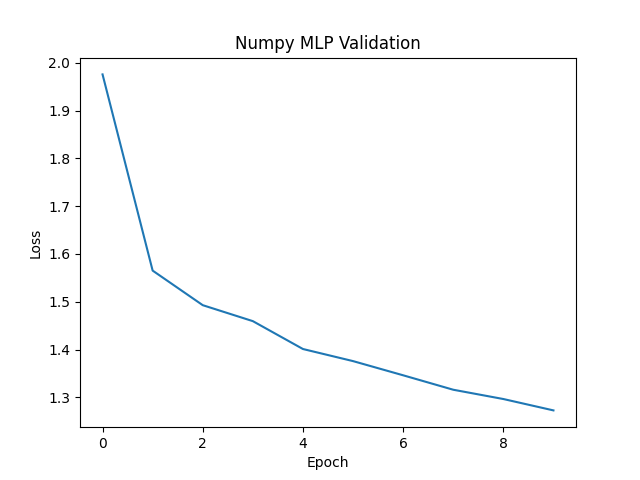
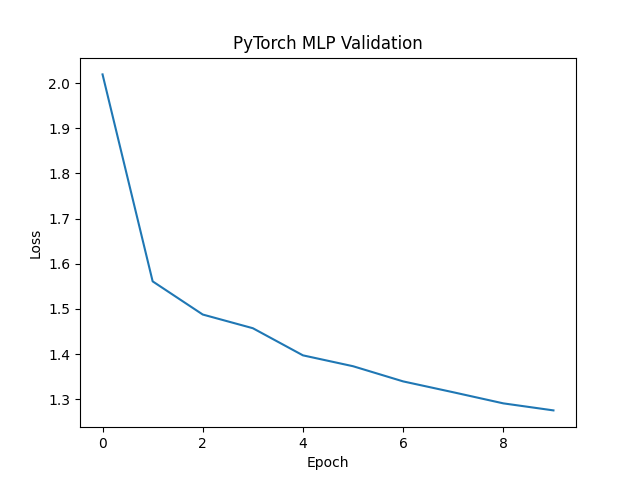
added batch norm, working on model comparison

diff --git a/assignment1/compare_models.py b/assignment1/compare_models.py
@@ -26,15 +26,18 @@ import os
 from mlp_pytorch import MLP
 import cifar10_utils
 import train_mlp_pytorch
+import train_mlp_numpy
 
 import torch
 import torch.nn as nn
 import torch.optim as optim
+
+import argparse
 # Hint: you might want to import some plotting libraries or similar
 # You are also allowed to use libraries here which are not in the provided environment.
 
 
-def train_models(results_filename):
+def train_models(results_filename, kwargs):
     """
     Executes all requested hyperparameter configurations and stores all results in a file.
     Note that we split the running of the model and the plotting, since you might want to 
@@ -52,8 +55,10 @@ def train_models(results_filename):
     # PUT YOUR CODE HERE  #
     #######################
     # TODO: Run all hyperparameter configurations as requested
-    results = None
+    best_model, val_accuracies, test_accuracy, logging_info = train_mlp_pytorch.train(**kwargs)
+    best_model_np, val_accuracies_np, test_accuracy_np, logging_info_np = train_mlp_numpy.train(**kwargs)
     # TODO: Save all results in a file with the name 'results_filename'. This can e.g. by a json file
+
     #######################
     # END OF YOUR CODE    #
     #######################
@@ -82,8 +87,33 @@ def plot_results(results_filename):
 
 
 if __name__ == '__main__':
-    # Feel free to change the code below as you need it.
+    # Command line arguments
+    parser = argparse.ArgumentParser()
+    
+    # Model hyperparameters
+    parser.add_argument('--hidden_dims', default=[128], type=int, nargs='+',
+                        help='Hidden dimensionalities to use inside the network. To specify multiple, use " " to separate them. Example: "256 128"')
+    parser.add_argument('--use_batch_norm', action='store_false',
+                        help='Use this option to add Batch Normalization layers to the MLP.')
+    
+    # Optimizer hyperparameters
+    parser.add_argument('--lr', default=0.1, type=float,
+                        help='Learning rate to use')
+    parser.add_argument('--batch_size', default=128, type=int,
+                        help='Minibatch size')
+
+    # Other hyperparameters
+    parser.add_argument('--epochs', default=10, type=int,
+                        help='Max number of epochs')
+    parser.add_argument('--seed', default=42, type=int,
+                        help='Seed to use for reproducing results')
+    parser.add_argument('--data_dir', default='data/', type=str,
+                        help='Data directory where to store/find the CIFAR10 dataset.')
+
+    args = parser.parse_args()
+    kwargs = vars(args)
+
     FILENAME = 'results.txt' 
     if not os.path.isfile(FILENAME):
-        train_models(FILENAME)
+        train_models(FILENAME, kwargs)
     plot_results(FILENAME)

diff --git a/assignment1/train_mlp_pytorch.py b/assignment1/train_mlp_pytorch.py
@@ -296,7 +296,7 @@ def train(hidden_dims, lr, use_batch_norm, batch_size, epochs, seed, data_dir, n
 
     return best_model, val_accuracies, test_accuracy, logging_info
 
-def saveLossFunctionPlot(logging_info, filepath = "pytorch_loss.png"):
+def saveLossFunctionPlot(logging_info, filepath = "pytorch_loss_batchNorm.png"):
   losses = logging_info["train"]["losses"]
   n_epochs = logging_info["info"]["epochs"]
   
@@ -304,7 +304,7 @@ def saveLossFunctionPlot(logging_info, filepath = "pytorch_loss.png"):
   fig, ax = plt.subplots()
   plt.xlabel("Epoch")
   plt.ylabel("Loss")
-  plt.title("Numpy MLP Validation")
+  plt.title("PyTorch MLP Validation w/BatchNorm")
   ax.plot(x_axis, losses)
 
   plt.savefig(filepath)
@@ -318,7 +318,7 @@ if __name__ == '__main__':
     # Model hyperparameters
     parser.add_argument('--hidden_dims', default=[128], type=int, nargs='+',
                         help='Hidden dimensionalities to use inside the network. To specify multiple, use " " to separate them. Example: "256 128"')
-    parser.add_argument('--use_batch_norm', action='store_true',
+    parser.add_argument('--use_batch_norm', action='store_false',
                         help='Use this option to add Batch Normalization layers to the MLP.')
     
     # Optimizer hyperparameters
@@ -342,4 +342,3 @@ if __name__ == '__main__':
 
     saveLossFunctionPlot(logging_info)
     # Feel free to add any additional functions, such as plotting of the loss curve here
-    

diff --git a/assignment1/mlp_pytorch.py b/assignment1/mlp_pytorch.py
@@ -65,13 +65,15 @@ class MLP(nn.Module):
 
         for i in range(len(features) - 1):
           self.modules.append(nn.Linear(features[i], features[i+1]))
+          if use_batch_norm and i < len(features) - 2:
+            self.modules.append(nn.BatchNorm1d(features[i+1]))
 
         self.use_batch_norm = use_batch_norm
         self.activation_function = nn.ELU()
 
         self.module_list = nn.ModuleList(self.modules)
 
-        first = False
+        first = True
 
         for module in self.module_list:
           if isinstance(module, nn.Linear):
@@ -110,10 +112,8 @@ class MLP(nn.Module):
         
         for i, module in enumerate(self.module_list):
           out = module(out)
-          if i < (len(self.module_list) - 1):
+          if i < (len(self.module_list) - 1) and (not self.use_batch_norm or (self.use_batch_norm and isinstance(module, nn.BatchNorm1d))):
             out = self.activation_function(out)
-            if(self.use_batch_norm):
-              out = nn.BatchNorm1d(module.out_features)
 
         #######################
         # END OF YOUR CODE    #

diff --git a/assignment1/train_mlp_numpy.py b/assignment1/train_mlp_numpy.py
@@ -347,6 +347,7 @@ if __name__ == '__main__':
 
     best_model, val_accuracies, test_accuracy, logging_info = train(**kwargs)
     saveLossFunctionPlot(logging_info)
+    
 
     # Feel free to add any additional functions, such as plotting of the loss curve here
     
